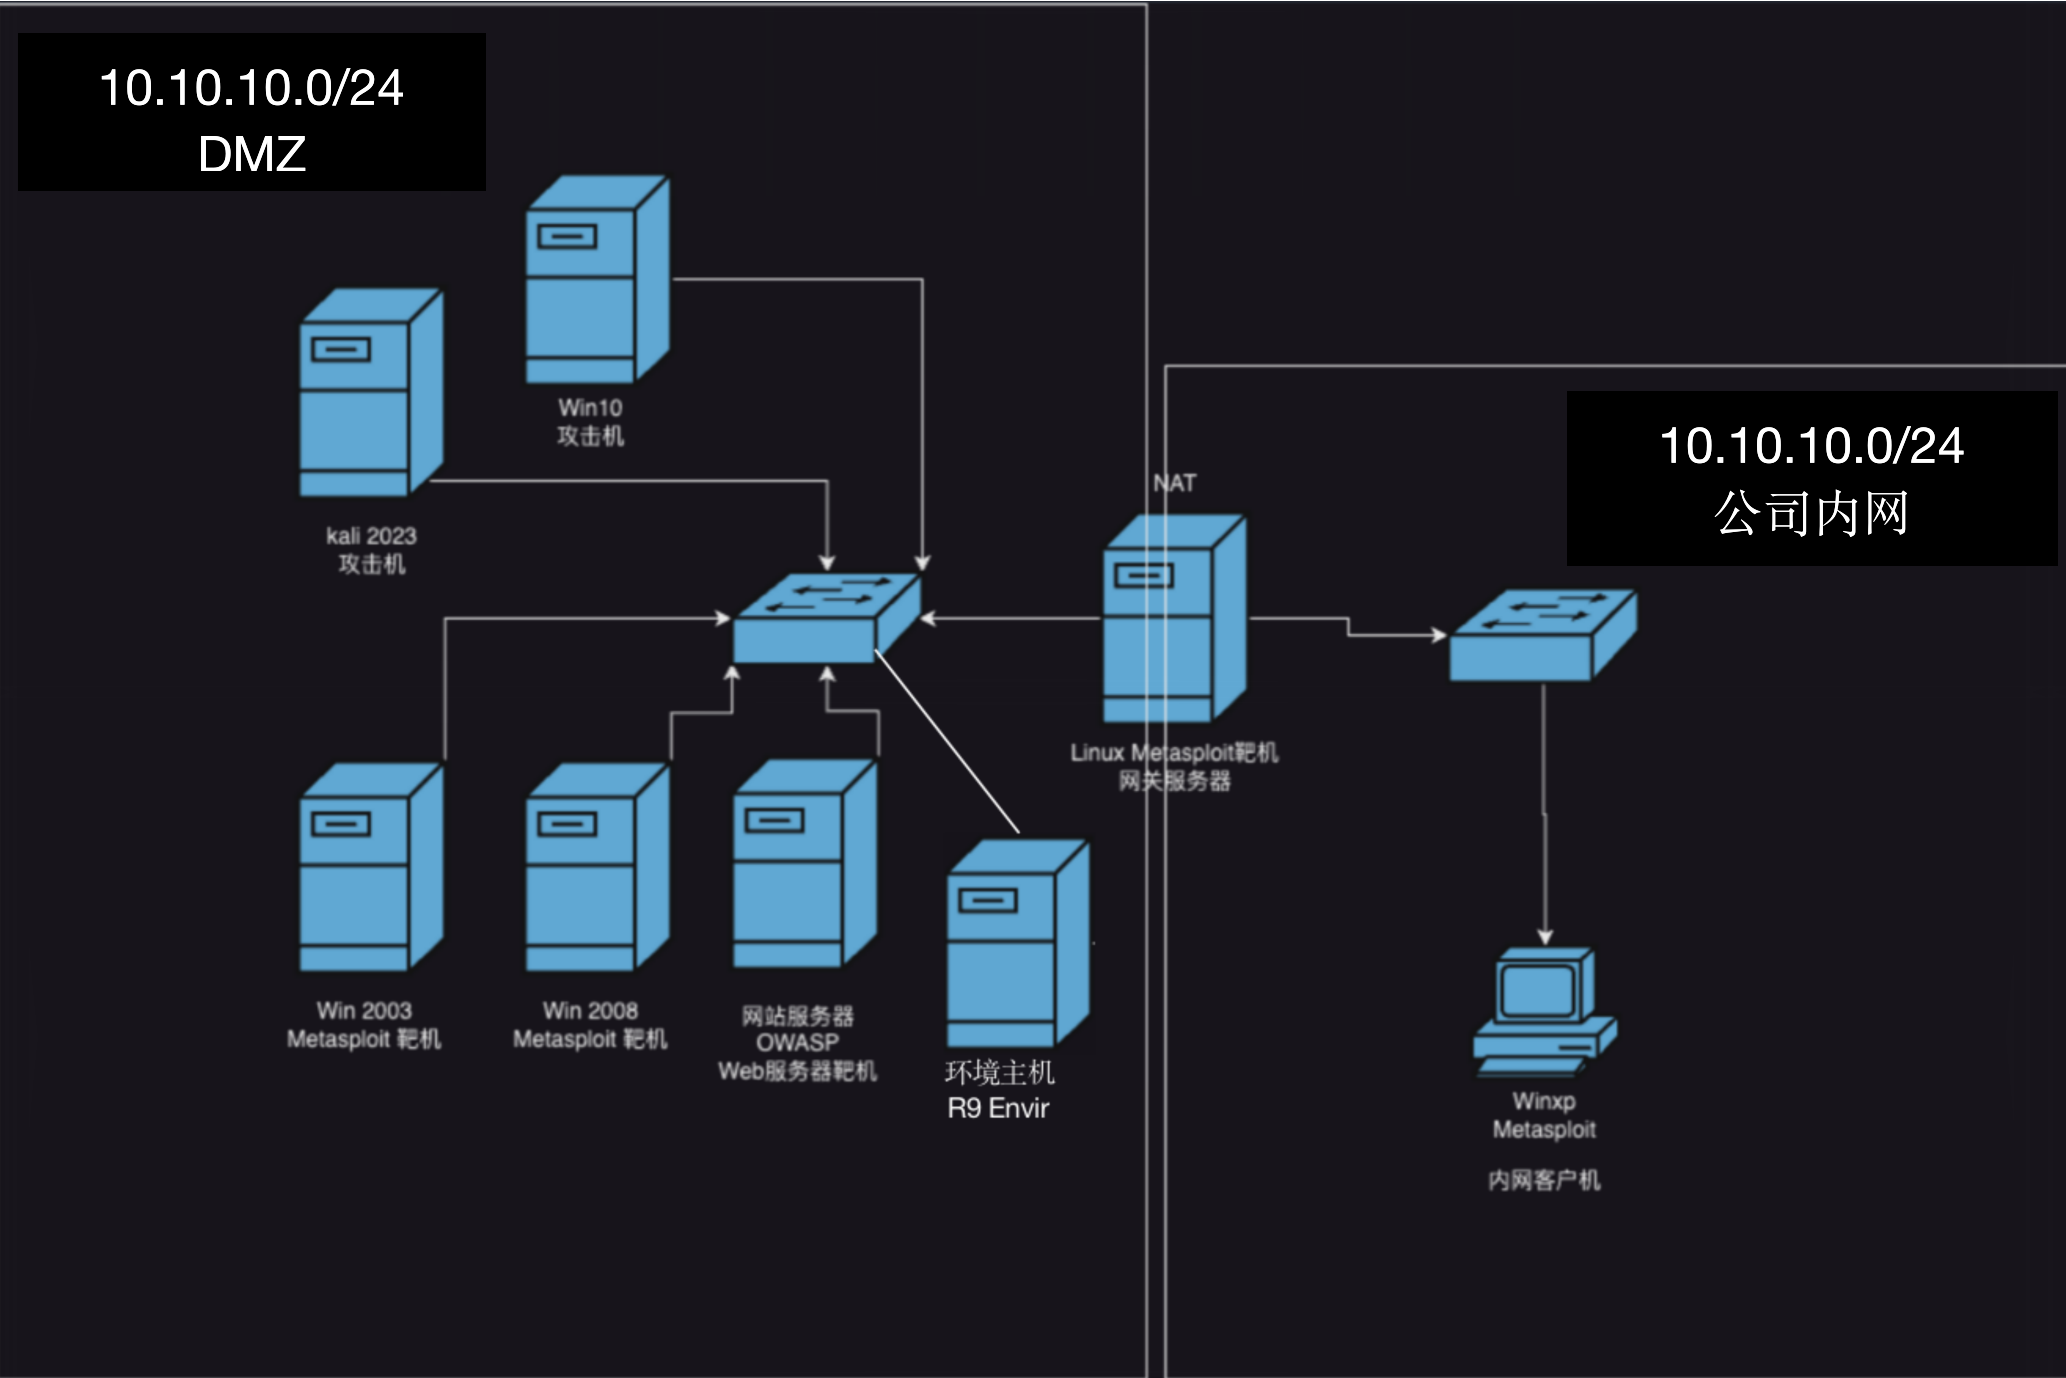
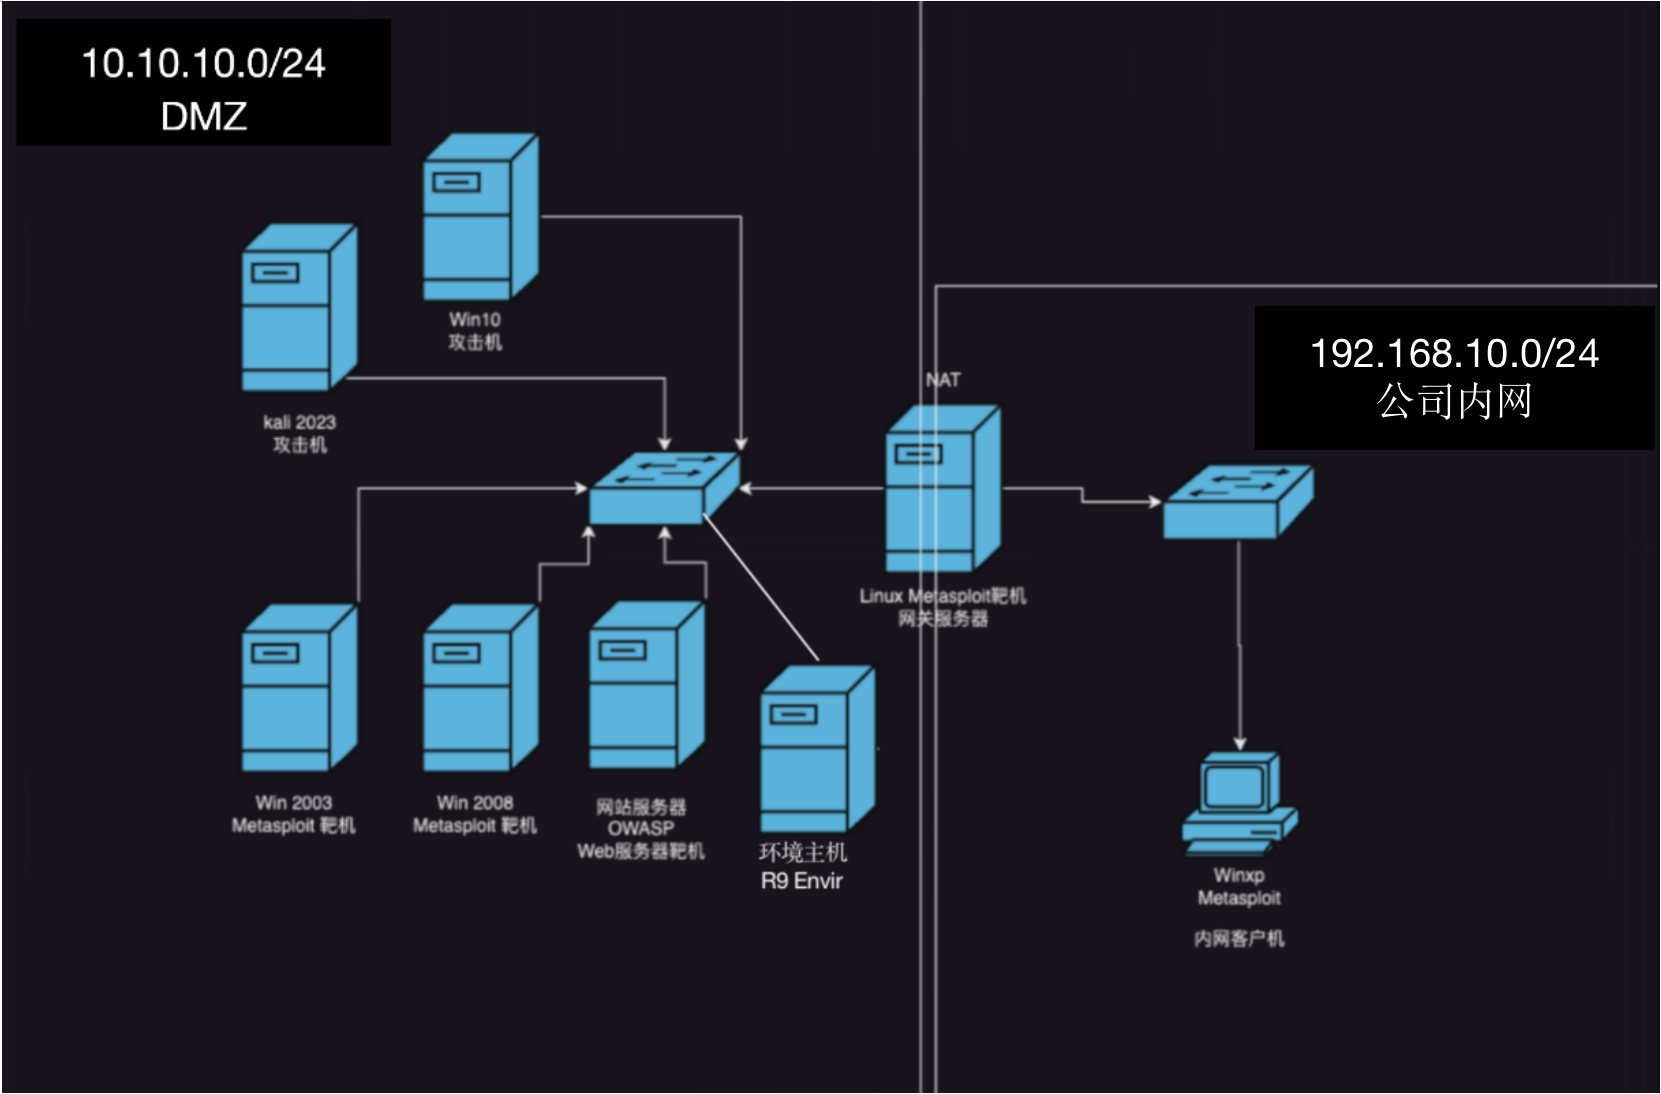
update

diff --git a/渗透攻击课程/Lesson0/4.虚拟环境部署.md b/渗透攻击课程/Lesson0/4.虚拟环境部署.md
@@ -17,7 +17,7 @@
 
 </center>
 
-- 在选项卡中选择 VMnet8 虚拟网络，如图0-3 所示进行设置，将子网I地址段设为172.16.10.0。
+- 在选项卡中选择 VMnet8 虚拟网络，如图0-3 所示进行设置，将子网 IP 地址段设为10.10.10.0。
 
 <center>
 
@@ -44,7 +44,7 @@
 
 </center>
 
-- 由于NAT 模式的 VMnet8 虚拟网络中默认开启了DHCP 服务，开始从先前配置的172.16.10.0/24网段中分配 IP 地址的，因此攻击机镜像会自动分配到IP地址，当然也可以手工将 Kali 攻击机设置为 自定义 的IP地址）。在虚拟机的命令终端中执行 ifconfig，确认攻击机IP 是否配置成功，命令如下所示。
+- 由于NAT 模式的 VMnet8 虚拟网络中默认开启了DHCP 服务，开始从先前配置的10.10.10.0/24网段中分配 IP 地址的，因此攻击机镜像会自动分配到IP地址，当然也可以手工将 Kali 攻击机设置为 自定义 的IP地址）。在虚拟机的命令终端中执行 ifconfig，确认攻击机IP 是否配置成功，命令如下所示。
 <center>
 
 ![0-5](./pics/0-5.png)
@@ -57,9 +57,9 @@
 
 ### 靶机部署
 #### OWASP BWA靶机部署:
-- 在OWASP 虚拟机镜像的选项卡中选择打开虚拟机电源，虚拟机会自动分配到 IP 地址,我这里分配到的是172.16.10.130,同样也可以手工设置该IP 地址。
+- 在OWASP 虚拟机镜像的选项卡中选择打开虚拟机电源，虚拟机会自动分配到 IP 地址,我这里分配到的是10.10.10.129,同样也可以手工设置该IP 地址。
 - 测试网络环境。分别在 Kali 和 OWASP 虛拟机上互相ping 对方IP 地址，都能成功说明网络连通正常（注意，如果ping 不通，请检查防火墙是否关闭)。
-- 在 Kali 攻击机镜像上打开的浏览器，访问172.16.10.130，应能够正常显示如图 0-6 所示的门户网站首页。
+- 在 Kali 攻击机镜像上打开的浏览器，访问10.10.10.129，应能够正常显示如图 0-6 所示的门户网站首页。
 
 <center>
 
@@ -70,13 +70,13 @@
 </center>
 
 ### Win2K3 Metasploit靶机部署:
-- 在Win2K3 虚拟机的选项卡中选择打开虚拟机电源，虚拟机会自动分配到 IP 地址,我这里分配到的是172.16.10.131（同样也可以手工设置该IP 地址。
+- 在Win2K3 虚拟机的选项卡中选择打开虚拟机电源，虚拟机会自动分配到 IP 地址,我这里我配置的是手动地址 10.10.10.130。
 - 分别在 Kali 和 Win2K3 虚拟机上运行 ping 命令，测试两台虚拟机能正常连通。
 
 ### Linux Metasploit靶机配置:
 - 打开 VMware Workstation 软件，选择文件一打开，选择虚拟机所在目录，选择相应VMX 文件。
-- 打开电源并登录后，在命令行下输人 iconfig，会发现有两个网卡eth0 及eth1，两个网卡所对应为 172.16.10.254 (NAT 模式，连接VMnet8 虚拟网
-段）和 192.168.200.254 （Host-only 模式，连接模拟企业内网的 VMnet1 虚拟网段，并作为VMnet1 网段的网关）。
+- 打开电源并登录后，在命令行下输人 iconfig，会发现有两个网卡eth0 及eth1，两个网卡所对应为 10.10.10.254 (NAT 模式，连接VMnet8 虚拟网
+段）和 192.168.10.254 （Host-only 模式，连接模拟企业内网的 VMnet1 虚拟网段，并作为VMnet1 网段的网关）。
 - 在命令行下输人 sudo vim /etc/network/interfaces 命令，修改/etc/network/interfaces 网卡配置文件如下 图0-7 所示：
 
 
@@ -101,16 +101,17 @@ net.ipv4.ip_forward=1    #去掉本行的注释
 ```shell
 #在终端下直接输入
 
-iptables -t nat -A POSTROUTING -s 192.168.200.0/24 -o eth0 -j MASQUERADE
+iptables -t nat -A POSTROUTING -s 192.168.10.0/24 -o eth0 -j MASQUERADE
 
 #iptables: 是一个用于配置 Linux 内核防火墙功能的命令行工具。
 #-t nat: 指定 iptables 的表（table）为 NAT 表，NAT 表用于处理网络地址转换相关的规则。
 #-A POSTROUTING: 指定要向 POSTROUTING 链（Post-routing chain）追加一条规则。POSTROUTING 链是在数据包从 Linux 系统出口发送之前进行处理的链。
-#-s 192.168.200.0/24: 指定源 IP 地址或地址范围，这里设置为 192.168.200.0/24，表示来自子网 192.168.200.0/24 的数据包将受到该规则的影响。
+#-s 192.168.10.0/24: 指定源 IP 地址或地址范围，这里设置为 192.168.10.0/24，表示来自子网 192.168.10.0/24 的数据包将受到该规则的影响。
 #-o eth0: 指定数据包出口接口为 eth0，这是指定数据包离开系统的网络接口。
 #-j MASQUERADE: 指定要执行的动作为 MASQUERADE，即对匹配的数据包进行源地址伪装（Source NAT）。它将修改数据包的源 IP 地址为出口接口的 IP 地址，以使返回的响应数据包正确地返回到原始请求的源。
 ```
-- 192.168.200.0/24 就是我们的 VMnet1 虛拟网段的IP地址范围，etho0是连接 NAT 模式 VMnet8 虚拟网段的网络适配器，但是，通过输人以上命令设置的规则在重启之后就会失效，所以，我们需要设置开机自动启动，通过在letc/rc.local 文件中添加以上命令就可以达到目的了。(注意：Linux 启动的最后阶段会执行rc.local 文件中的命令。)
+
+- 192.168.10.0/24 就是我们的 VMnet1 虛拟网段的IP地址范围，etho0是连接 NAT 模式 VMnet8 虚拟网段的网络适配器，但是，通过输人以上命令设置的规则在重启之后就会失效，所以，我们需要设置开机自动启动，通过在letc/rc.local 文件中添加以上命令就可以达到目的了。(注意：Linux 启动的最后阶段会执行rc.local 文件中的命令。)
 - 最后分别在 Kali 和 Linux Metasploitable 虚拟机上运行 ping 命令，测试两台虛拟机能正常连通。如果能够正常 ping通，说明网卡 eth0 是正常工作的，对eth1 及转发功能的测试。
 
 ### WinXP Metasploitable靶机配置
@@ -126,7 +127,7 @@ iptables -t nat -A POSTROUTING -s 192.168.200.0/24 -o eth0 -j MASQUERADE
 
 </center>
 
-- 打开正浏览器，访问 http://172.16.10.130，如果之前配置都正确，将会正常通过 Linux Metasploitable网关服务器的路由转发，访问到门户网站服务器上的页面，模拟门户网站服务器的定制 OWASP BWA 靶机镜像上做了配置，企业内网网段终端主机访问门户网站服务器时，将会显示内部训练网站系统的登录页面，如图0-9 所示。
+- 打开正浏览器，访问 http://10.10.10.129，如果之前配置都正确，将会正常通过 Linux Metasploitable网关服务器的路由转发，访问到门户网站服务器上的页面，模拟门户网站服务器的定制 OWASP BWA 靶机镜像上做了配置，企业内网网段终端主机访问门户网站服务器时，将会显示内部训练网站系统的登录页面，如图0-9 所示。
 
 <center>
 
